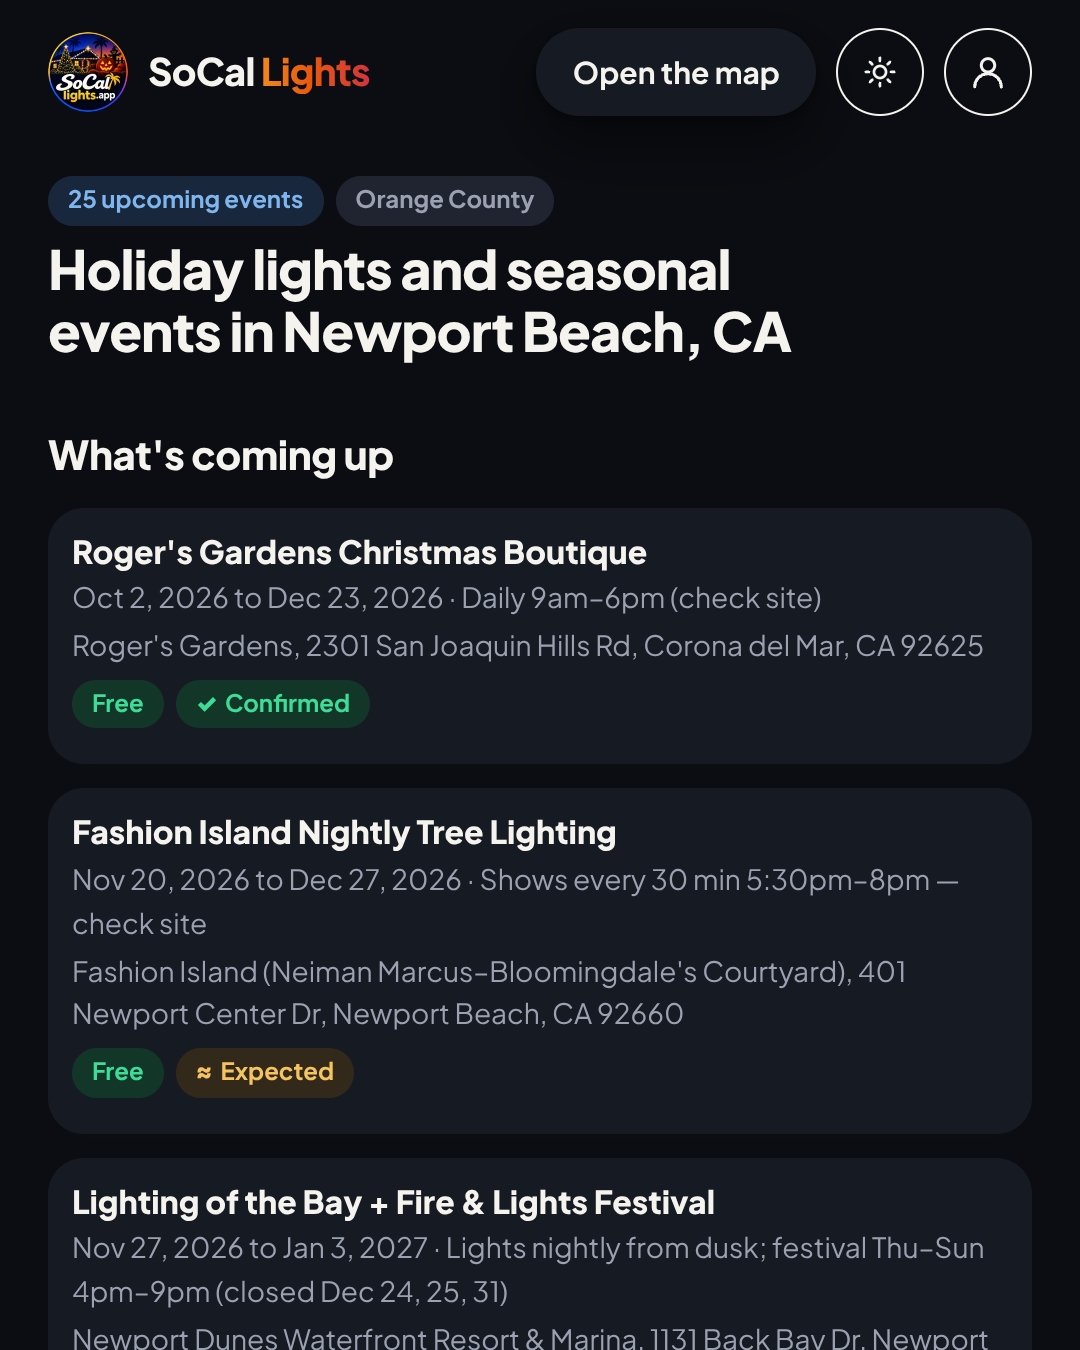
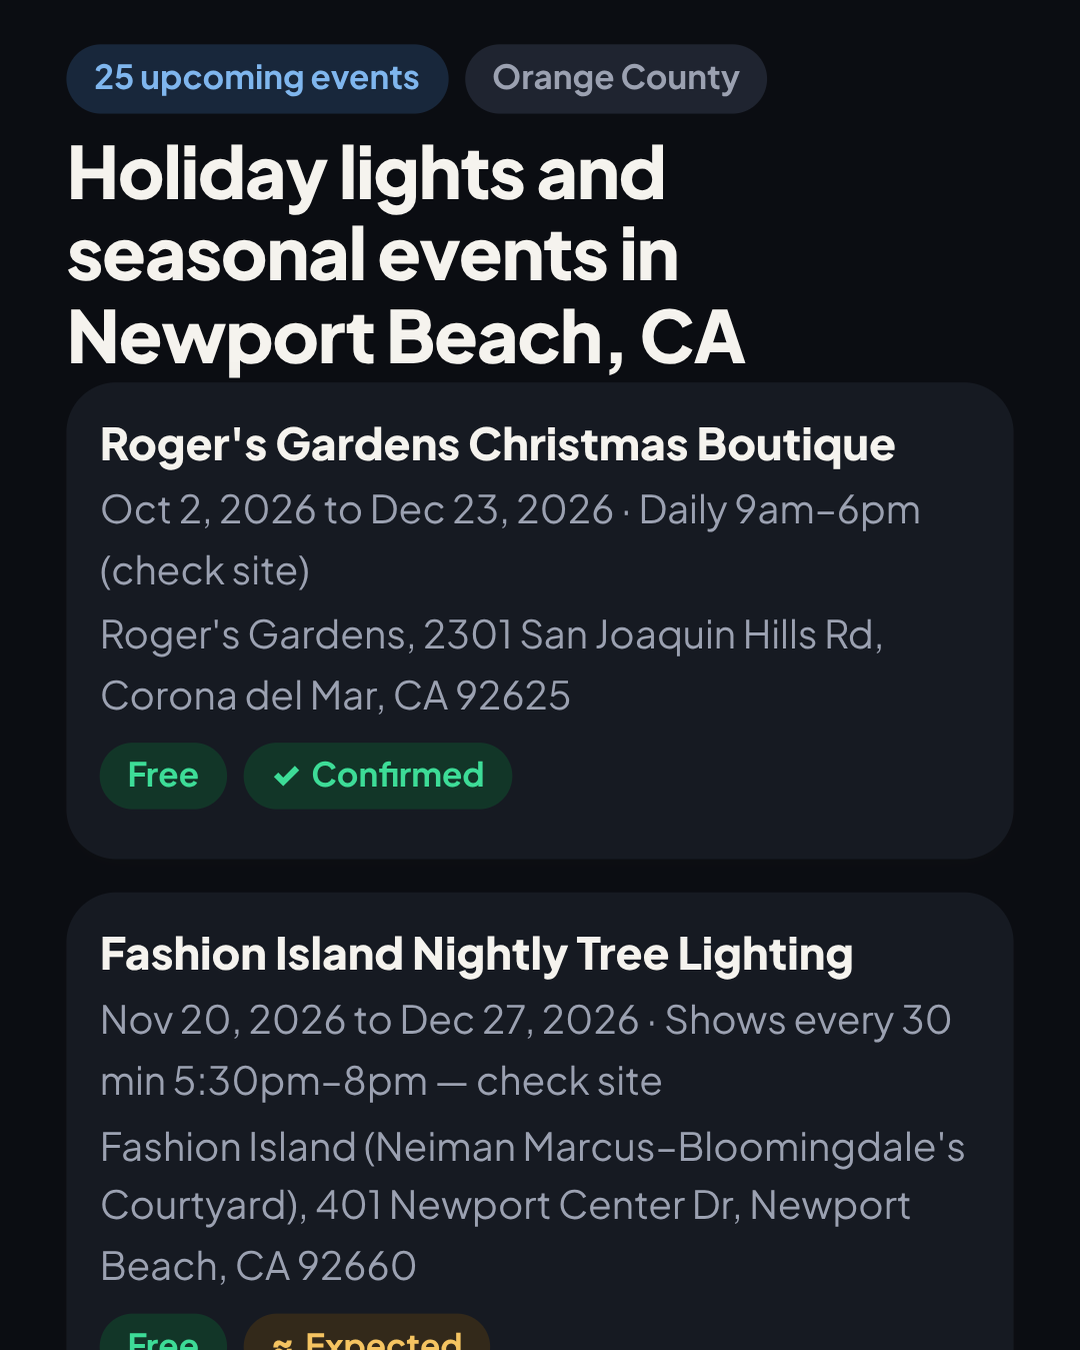
a02, a03, a05 redo: true 390 px phone layout at 2.77x (readable text), 4:5 crops

diff --git a/docs/marketing/ad-assets/_build/a03.js b/docs/marketing/ad-assets/_build/a03.js
@@ -1,6 +1,8 @@
 // Adds an 'Example contest' label and swaps demo street numbers for plain 'Maple Street' so no house numbers show.
+// Phone view only: also hides the 'Voting runs ...' paragraph so the Enter my home button fits in the 4:5 crop.
 (() => {
   const b = document.createElement("div"); b.id = "exlabel"; b.textContent = "Example contest · demo homes"; document.body.appendChild(b);
+  document.querySelectorAll("p,div").forEach((e) => { if (e.children.length === 0 && /^Voting runs/.test(e.textContent)) e.style.display = "none"; });
   const w = document.createTreeWalker(document.body, NodeFilter.SHOW_TEXT); let n;
   while ((n = w.nextNode())) n.nodeValue = n.nodeValue.replace(/\b\d{3} Maple Street/g, "Maple Street").replace(/Demo data for a tutorial video\./, "Demo data.");
 })();

diff --git a/docs/marketing/ad-assets/_build/a03.css b/docs/marketing/ad-assets/_build/a03.css
@@ -1,3 +1,4 @@
 [class*="chat"],#chat-fab,#chatfab{display:none!important}
-#exlabel{position:fixed;z-index:99999;left:0;right:0;top:0;background:#ffd166;color:#14161b;font:800 22px/1 "Plus Jakarta Sans",system-ui,sans-serif;text-align:center;padding:14px 10px;letter-spacing:.3px}
-body{padding-top:48px!important}
+.top{display:none!important}
+#exlabel{position:fixed;z-index:99999;left:0;right:0;top:0;background:#ffd166;color:#14161b;font:800 17px/1 "Plus Jakarta Sans",system-ui,sans-serif;text-align:center;padding:11px 8px;letter-spacing:.2px}
+body{padding-top:38px!important}

diff --git a/docs/marketing/ad-assets/_build/a02.css b/docs/marketing/ad-assets/_build/a02.css
@@ -1,3 +1,4 @@
 [class*="chat"],#chat-fab,#chatfab{display:none!important}
 img:not([src*="icon"]):not([src*="badge"]){display:none!important}
 .ev{grid-template-columns:1fr!important}.ev .ph{display:none!important}
+h2{display:none!important}.top{display:none!important}
